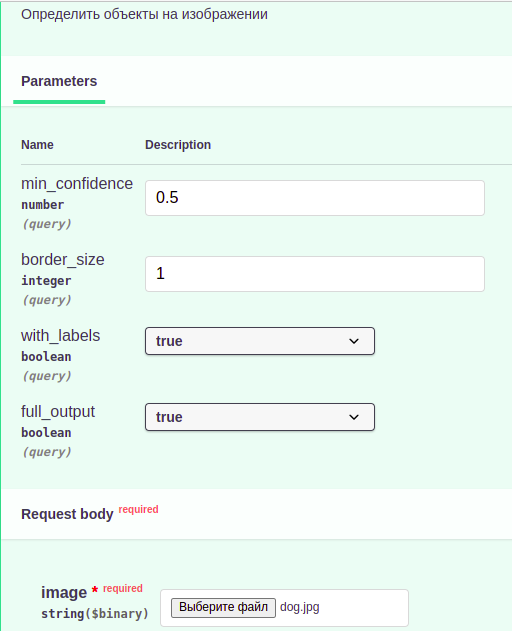
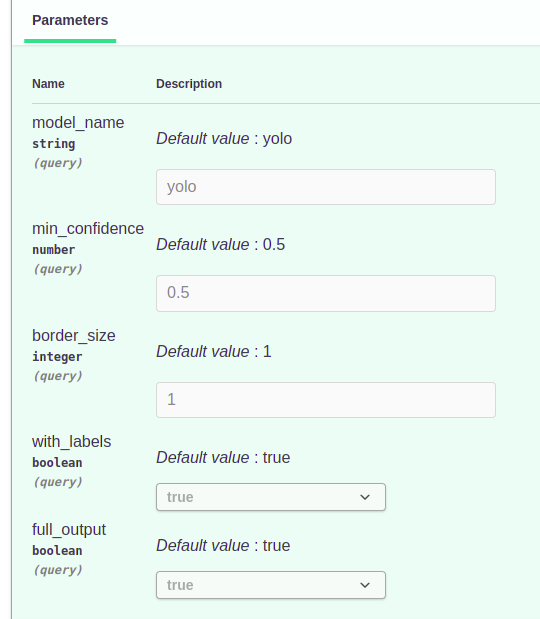
Обновляем README.md

diff --git a/README.md b/README.md
@@ -54,6 +54,10 @@
 
 `ADMIN_PASSWORD` - пароль администратора.
 
+`IBM_SSD_MODEL_URL` - URL на который нужно отправить запрос для распознавания объектов через модель IBM SSD
+Подразумевается, что эта модель работает в отдельном докер контейнере. Нужно указать хост этого контейнера 
+в локальной докер сети. См. .env.sample
+
 Далее клонируем репозиторий darknet, в котором реализованы многие популярные архитектуры свёрточных нейронных
 сетей.
 
@@ -109,6 +113,11 @@
 На рисунке представлены передаваемые параметры:
 
 ![alt text](docs/2.png "Title")
+
+`model_name` - название модели, которая будет использована для распознавания объектов. На данный момент доступно две
+модели:
+1. yolo - YOLO: Real-Time Object Detection (https://pjreddie.com/darknet/yolo/, https://github.com/pjreddie/darknet)
+2. ssd - IBM Developer Model Asset Exchange: Object Detector (https://hub.docker.com/r/codait/max-object-detector)
 
 `image` - изображение, на котором нужно определить объекты
 
